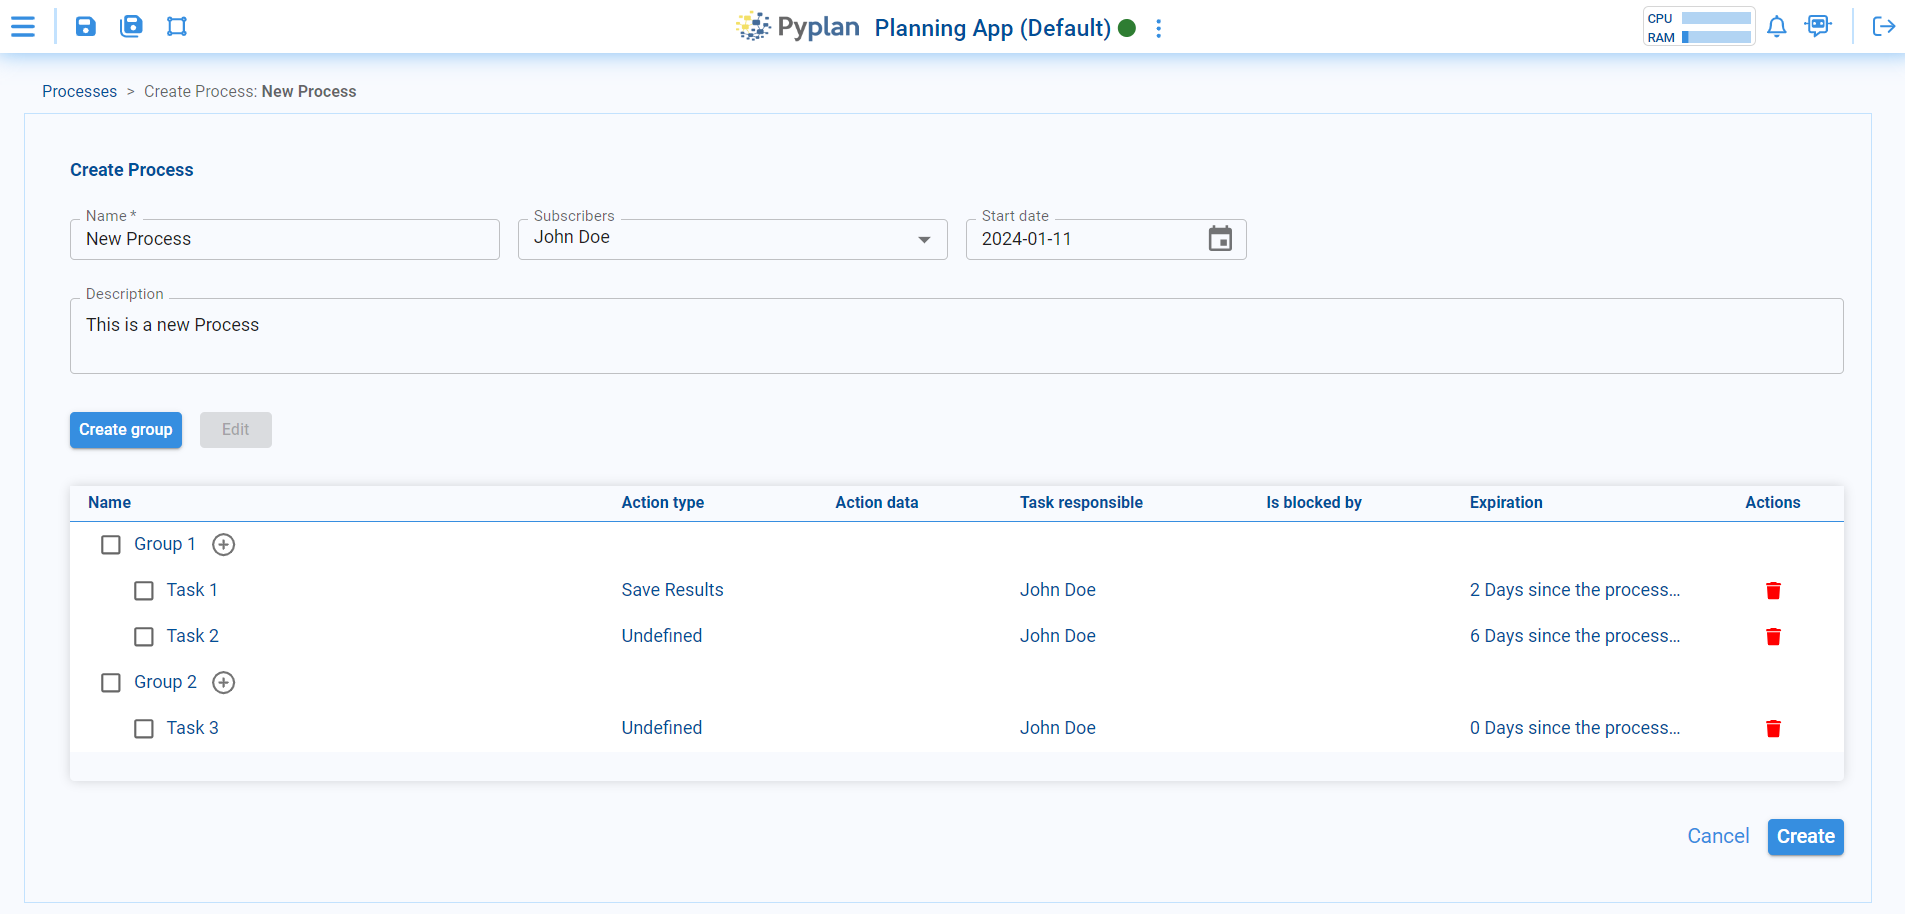
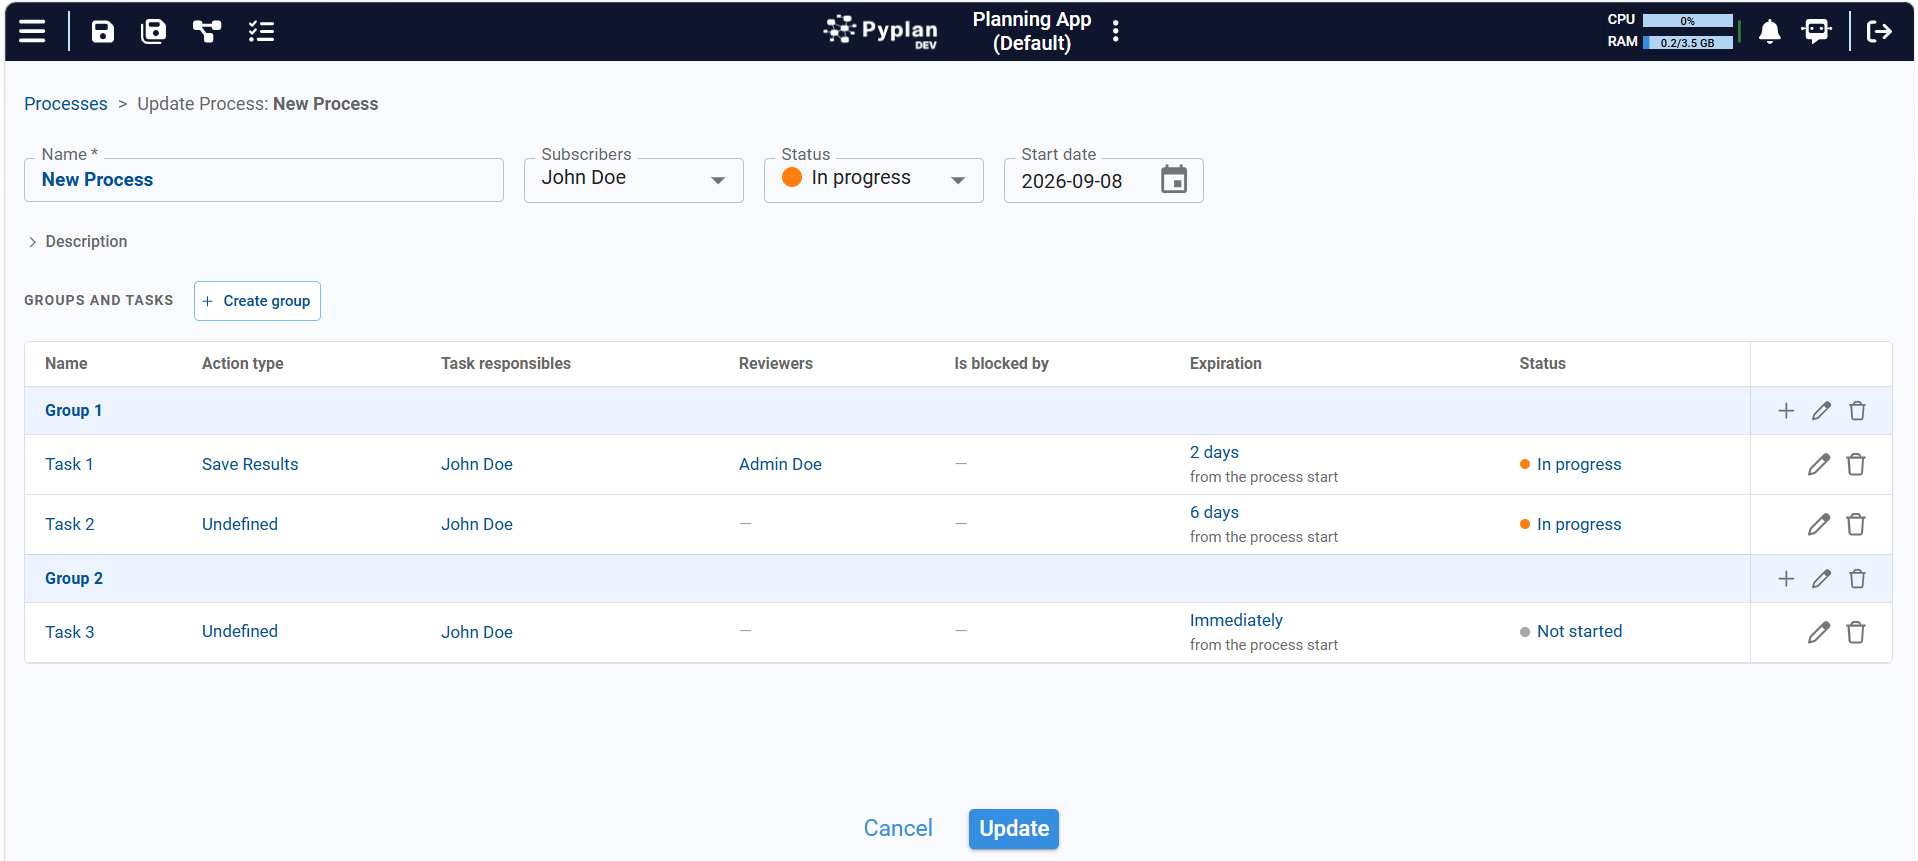
Update process images and docs

diff --git a/docs/user-guide/processes.md b/docs/user-guide/processes.md
@@ -11,7 +11,7 @@ The Processes manager provides an intuitive and user-friendly interface for crea
 
 This section of Pyplan is essential for maintaining a clear and organized record of the steps followed in application creation. It allows better collaboration among team members, defines clear responsibilities, and facilitates the review and validation of each completed task.
 
-![Open Processes](./img/processes/open_processes.png)
+![Open Processes](./img/processes/menu-process.png)
 
 ## Create a Process
 
@@ -42,7 +42,7 @@ Creating tasks within a process provides a way to divide work into smaller units
 - **Auto-complete on due date**: Automatically mark task as completed when due date is reached.
 - **Description**: Space for writing a more detailed description of the task, including additional instructions, requirements, or any other relevant information.
 
-![Add Task](./img/processes/add_task_3.png)
+![Add Task](./img/processes/add-new-task.png)
 
 ## Agents in a Process
 
@@ -104,4 +104,9 @@ After creating processes, the respective responsible parties for each task can a
 
 The task's status reflects its position in the process, and if there are designated reviewers, they can assess whether the task is completed correctly. Additionally, a comments section is available for each task, facilitating communication and providing a space for necessary annotations. Tasks assigned to an agent are marked with an agent icon, and the agent's own notes appear in that same comments section.
 
-![Task Viewer](./img/processes/task_viewer.png)
+
+The process can be reviewed from two complementary views. The **Table view** organizes tasks in a single overview, making it easy to compare status, due dates, responsible users, reviewers, and comments at a glance. The **Timeline view** complements it by showing the workflow in chronological order, helping users understand dependencies and how tasks progress from start to finish. Together, these views provide a clear operational summary and a structured view of the process over time.
+
+![Task Table](./img/processes/process-table.png)
+
+![Task Timeline](./img/processes/process-timeline.png)
